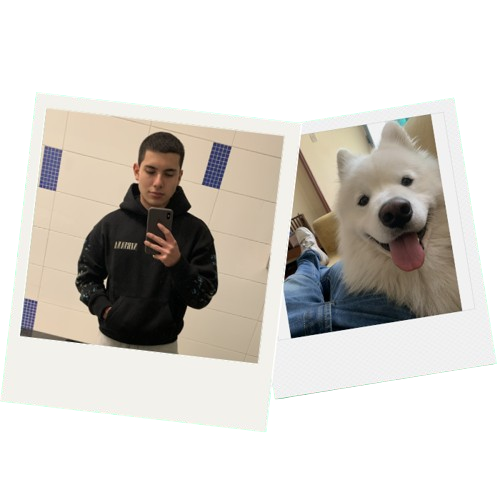
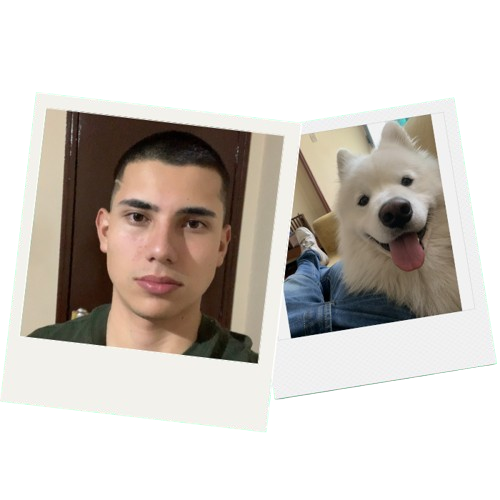
updates in the organization of the project

Changed region(s): [[0.03, 0.21, 0.57, 0.75]]

diff --git a/src/components/Pictures.tsx b/src/components/Pictures.tsx
@@ -119,7 +119,7 @@ export const PicturesInBalloons = () => {
         <div id="balloon5" onClick={() => deleteBalloon(5)} className="cursor-pointer balloon rotate-[10deg] -translate-y-[12rem] top-0 left-[-6rem]"></div>
       </div>
       <Image
-        src={require(`@/assets/ovni.png`)}
+        src={require(`@/assets/photos.png`)}
         alt="Me and my dog"
         className="w-auto z-[998] relative"
       />
